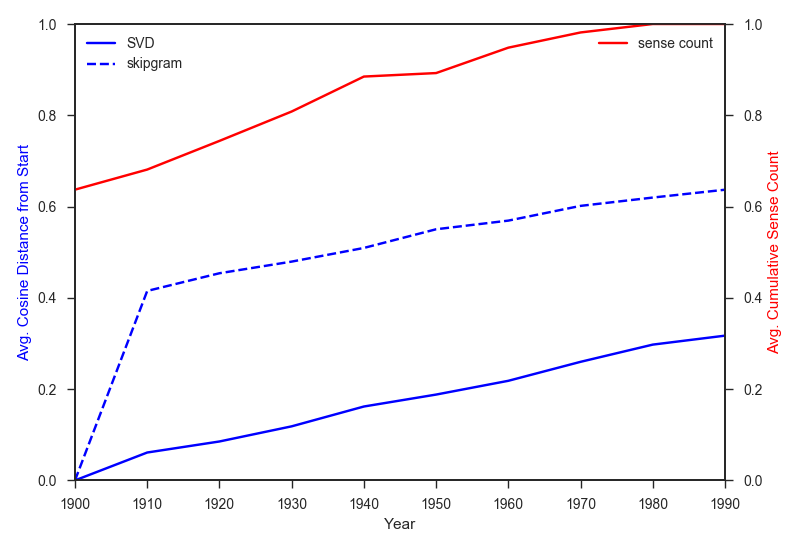
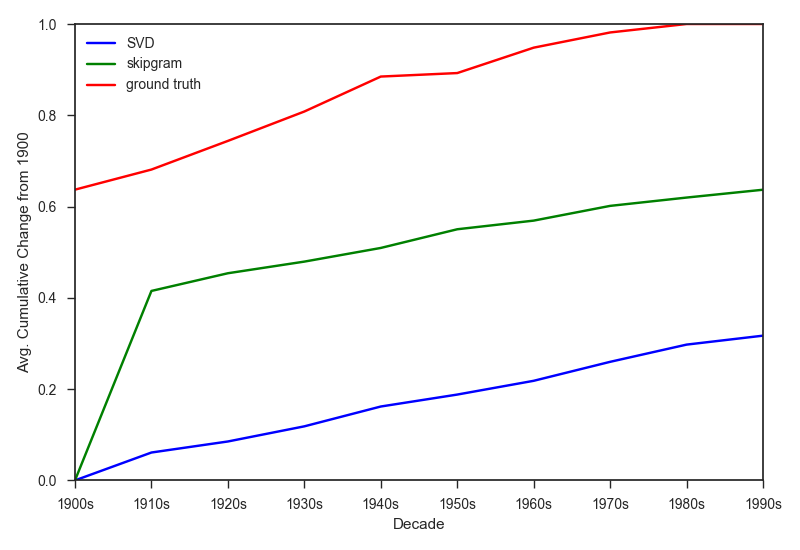
minor graph changes

diff --git a/project/plot.py b/project/plot.py
@@ -12,25 +12,17 @@ def plot_change():
 	skipgram_change = pd.read_csv('saved/skipgram_change.csv').set_index('word')
 	count_change = pd.read_csv('saved/count_change.csv').set_index('word')
 
-	fig, ax1 = plt.subplots()
-	
-	ax1.plot(years, svd_change.ix['avg'].tolist(), 'b-', label='SVD')
-	ax1.plot(years, skipgram_change.ix['avg'].tolist(), 'b--', label='skipgram')
-	ax1.set_ylabel('Avg. Cosine Distance from Start', color='b')
-	ax1.set_xlabel('Year')
-	ax1.set_xlim(1900, 1990)
-	ax1.set_ylim(0, 1.0)
+	plt.plot(years, svd_change.ix['avg'].tolist(), 'b-', label='SVD')
+	plt.plot(years, skipgram_change.ix['avg'].tolist(), 'g-', label='skipgram')
+	plt.plot(years, count_change.ix['avg'].tolist(), 'r-', label='ground truth')
+	plt.ylabel('Avg. Cumulative Change from 1900')
+	plt.xlabel('Decade')
+	plt.xlim(1900, 1990)
+	plt.ylim(0, 1.0)
 	plt.legend(loc=2)
+	plt.xticks(years, map(lambda s: s + "s", map(str, years)))
 
-	ax2 = ax1.twinx()
-	ax2.plot(years, count_change.ix['avg'].tolist(), 'r-', label='sense count')
-	ax2.set_ylabel('Avg. Cumulative Sense Count', color='r')
-	ax2.set_xlabel('Year')
-	ax2.set_xlim(1900, 1990)
-	ax2.set_ylim(0, 1.0)
-	plt.legend(loc=1)
-
-	fig.tight_layout()
+	plt.tight_layout()
 	plt.savefig('figures/compare.png')
 	plt.show()
 
